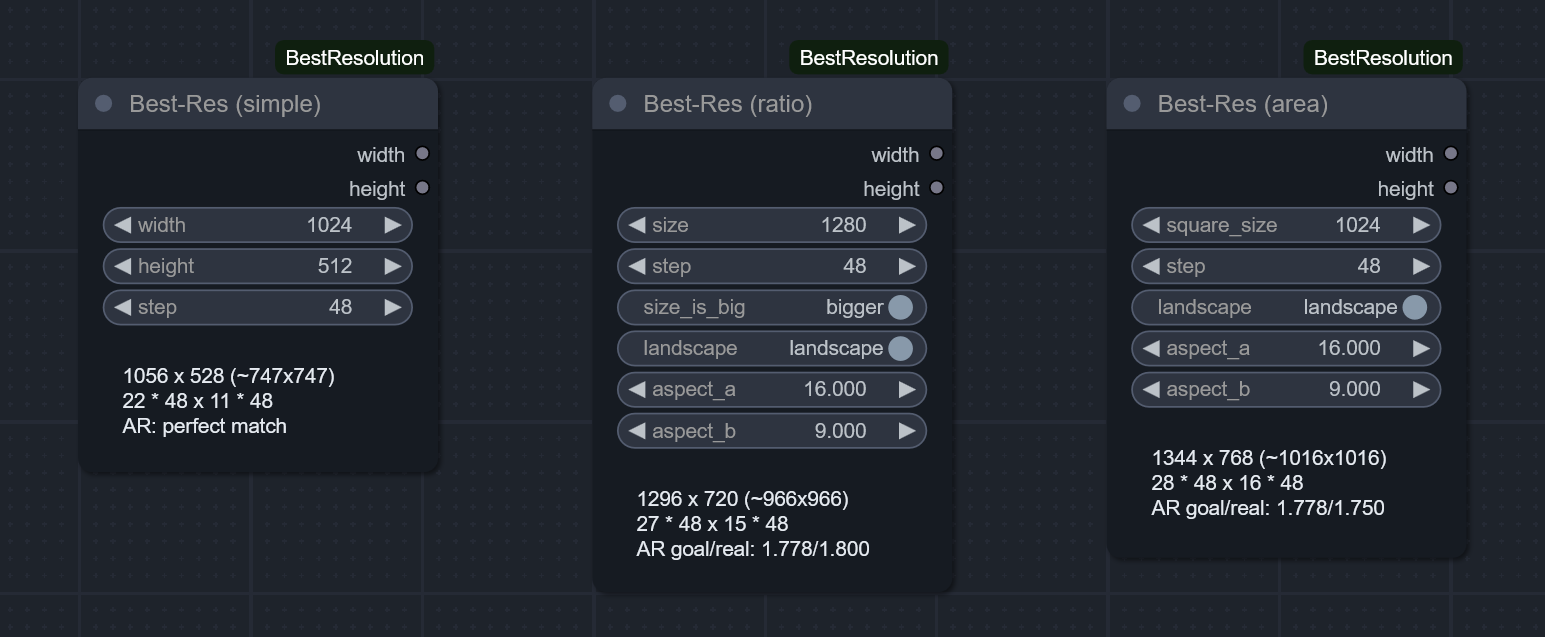
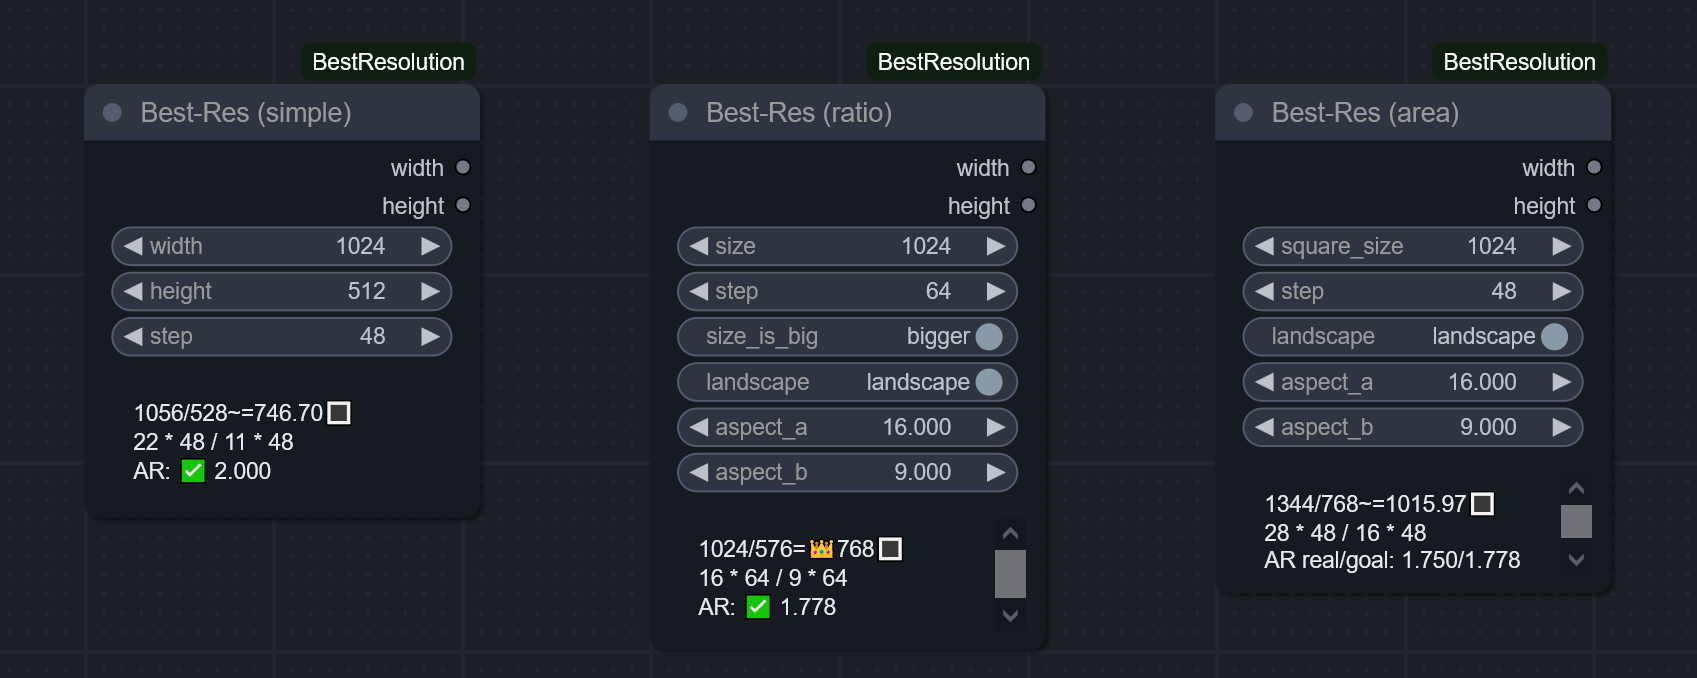
README

diff --git a/README.md b/README.md
@@ -1,17 +1,27 @@
+> "Do one thing and do it well." _— Peter H. Salus / Doug McIlroy, [core Unix principle](https://en.wikipedia.org/wiki/Unix_philosophy)_
+
+> "Simple is better than complex." _— Zen of Python_
+
 # ComfyUI-BestResolution
 
-QoL Nodes for semi-automatic calculation of the best (most optimal) resolution:
-- compatible with ANY model (from now or the future),
-- accounting for upscale (**TODO**, planned soon)
-- ... and (the required) pixel-step.
+A small modular pack - QoL nodes for semi-automatic calculation of the best (most optimal) sampling resolution:
+- ... model-agnostic - i.e., compatible with **ANY** model (from now **or** the future),
+- ... accounting for upscale (**TODO**, planned soon)
+- ... and for (the essential) pixel-step. 
 
 ![image](img/screenshot1.png)
 
-In case you didn't know, you can't just choose **any** arbitrary resolution for sampling. You need to ensure:
-- both width and height are divisible by pre-defined latent scale factor (8 for both SD1.5 and SDXL);  
-- the overall resolution (aka megapixels) is as close to training dataset as possible.
+Read any further only if you feel you need to.
 
-This pack lets you forget about crunching numbers and handles the calculation of optimal width/height for you, while still leaving control to you. It provides 3 main nodes:
+## The purpose
+
+In case you didn't know, you can't just choose **any** arbitrary resolution for sampling. You need to ensure:
+- both width and height are divisible by a latent scale factor, pre-defined by a model family _(`8` for both SD1.5 and SDXL)_ - and they **must** remain multiples of it both in initial generation **AND** after further upscales;
+- the overall resolution _(aka megapixels, total pixel count)_ is as close as possible to the model's "view window" _(the resolution it was trained on)_ - so if you increase one side of the image, you need to proportionally decrease the other.
+
+... and choosing the right resolution is your responsibility. 🤷🏻♂
+
+This pack lets you forget about crunching numbers and handles the calculation of optimal width/height for you, while still leaving control of the image size/proportions/orientation to you. It provides 3 main nodes:
 
 ### Simple
 
@@ -19,14 +29,46 @@ Just rounds width/height to the given step, ensuring the image **CAN** be conver
 
 ### From Aspect-Ratio
 
-You specify the desired aspect ratio, one of the sides, and orientation (landscape/portrait). The node detects the actual width/height.
+As the name suggests, you control the resolution indirectly - by specifying the desired aspect ratio, one of the sides, and orientation (landscape/portrait).  
+The node detects the actual width/height to match those as close as posible.
 
 ### From Area
 
-To my taste, **THE** safest and easiest approach to selecting the optimal sampling resolution.
+To my taste, **THE** way to select the optimal resolution for diffusion models.
 
-All you need to know is a side of square images the model was trained on (512 for SD1.5, 1024 for SDXL). The node handles the rest to ensure the total resolution (i.e., number of pixels) is as close to the training data as possible, while still respecting aspect ratio and step size.
+All you need to know is a size (one side) of square images the model was trained on _(512 for SD1.5, 1024 for SDXL)_. The node handles the rest to meet all the restrictions:
+- match the total resolution (i.e., image area, number of pixels) as close to the training one as possible,
+- ... while still respecting aspect ratio, image orientation and step size.
 
 ## Tooltips
 
-Each parameter is self-documented in detail - just hover mouse over it. If you're new to Comfy and Stable Diffusion, this might be especially helpful.
+Each parameter is self-documented in the shortest possible, yet exhaustive detail - just hover mouse over it. If you're new to Comfy and Stable Diffusion, this might be especially helpful.
+
+## A note on `step` value to choose
+
+This parameter has the highest priority. A desired resolution is slightly tweaked to **always** adhere to it **strictly**. The nodes do their best to match all other criteria, but no matter what, in the end both width and height **must** remain a multiple of this value. This means two things:
+1. If you don't plan processing the image with diffusion model but otherwise like these nodes for image-size selection, you can still use them - just set `step` to `1` (effectively disabling any rounding).
+2. The right `step` value can single-handedly save you from unnecessary cropping or out-painting later.
+
+> In my workflows, I usually generate images like this:
+> - initial draft generation, exactly in the resolution the model was trained on - only composition and overall silhouettes matter here.
+> - "HD fix": immediate first 1.5x upscale in latent space, followed by sampling with high denoise (0.5+) - this becomes the actual base image to improve upon.
+>   - some tweaking/inpainting is done in this resolution.
+> - at least one more upscale, still sampling the whole image at once if GPU has VRAM for that (with a lower denoise, though).
+> - subsequent upscales with [USDU](https://github.com/ssitu/ComfyUI_UltimateSDUpscale).
+
+So, this imposes a few restrictions on the initial gen if we want to avoid cropping/outpainting later:
+- The initial image must be a multiple of `8`
+- After 1.5x upscale it must also be a multiple of `8` - so a +0.5 of size must be divisible by 8, or the initial step must be divisible by `8*2`
+- After that 1.5x upscale we get into a territory where the ONLY next upscale we can do is 2x - which at that point might have not enough resolution to safely do so without messing up some details and having to denoise with high value again, losing some aspects of the base image we liked. That's a bummer...
+  - HOWEVER, if our initial `step` had another factor integer built into it, we can do a fractional upscale again.
+  - That factor could be `2` again... but after some tests I discovered `3` is a better choice. So, our total step needs to be `8*2*3` - then the second upscale could be +1/3 or 1.3333x
+- Assuming we do at least one more upscale of 2x somewhere down the road, we can use the fact that we did a 1.5x before - since together they become another multiple of 3, or, in other words, the upscaled image could be divided by 9 on each side.
+  - This is not at all necessary for "regular"-sized HD images, but might become handy for later ultra-upscales (6k+) with USDU.
+
+Combining all of the above, our lowest common denominator is `8*2*3`, and assuming we do 1.5x + 2x upscales, it will naturally become divisible by `9` down the road.
+
+**Thus, `48` by default.**
+
+But if you prefer to always upscale by 1.5, you might look into `8*2*2` = `32`.
+Or, to allow a few more of 1.5x upscales (or a 1.25x one), or to get the resolution closer to the ones we used to (1080p, 1440p, etc), you might want to increase it by a power of 2, getting `64`, `96`, `128`, `192`, `256`, etc.
